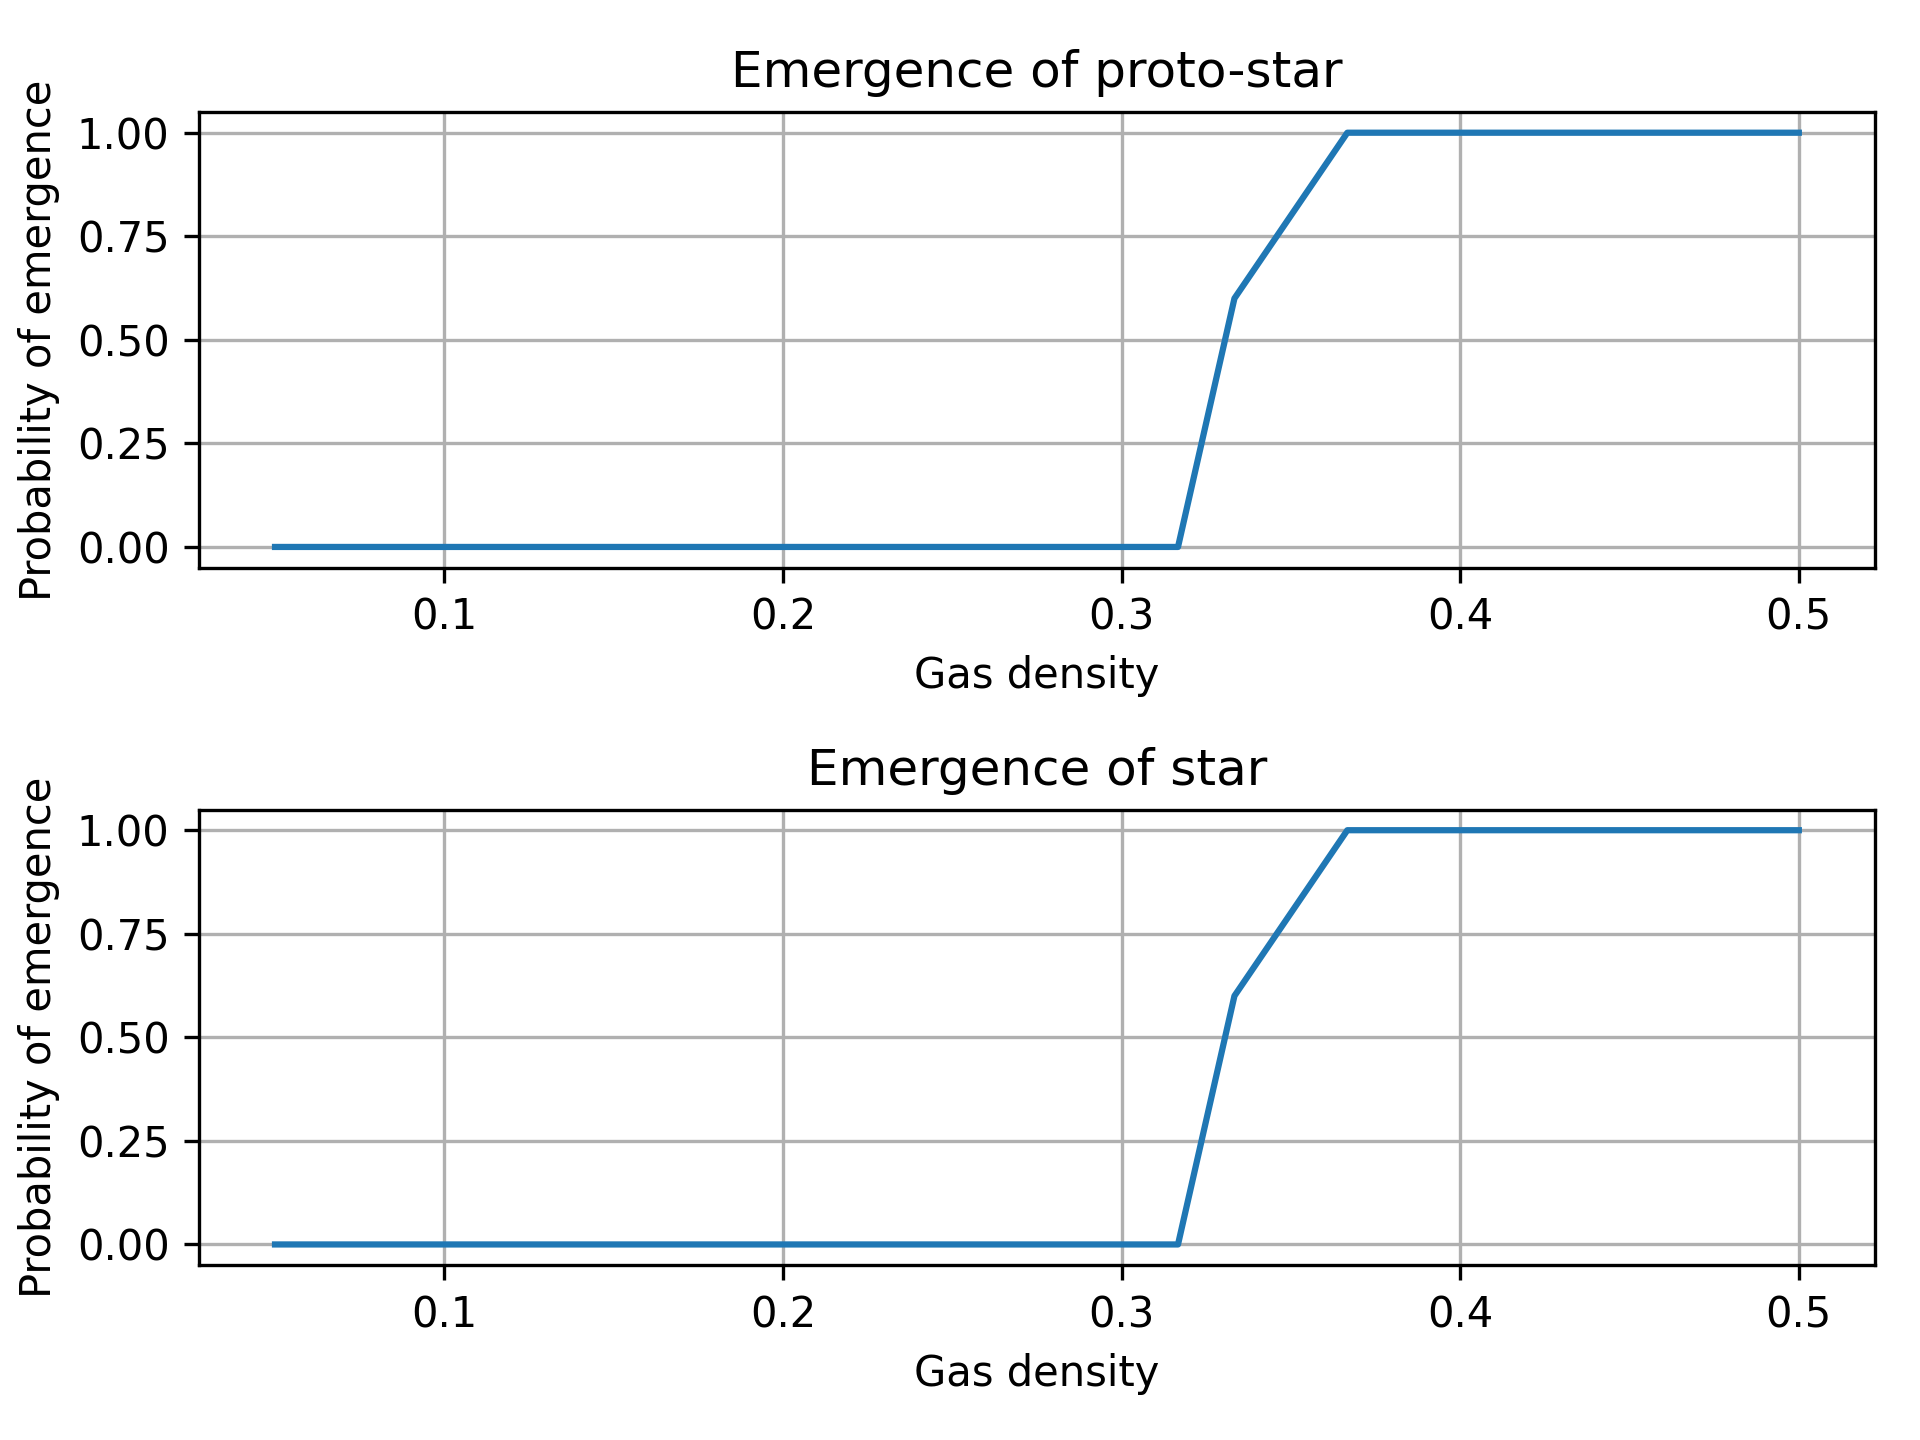
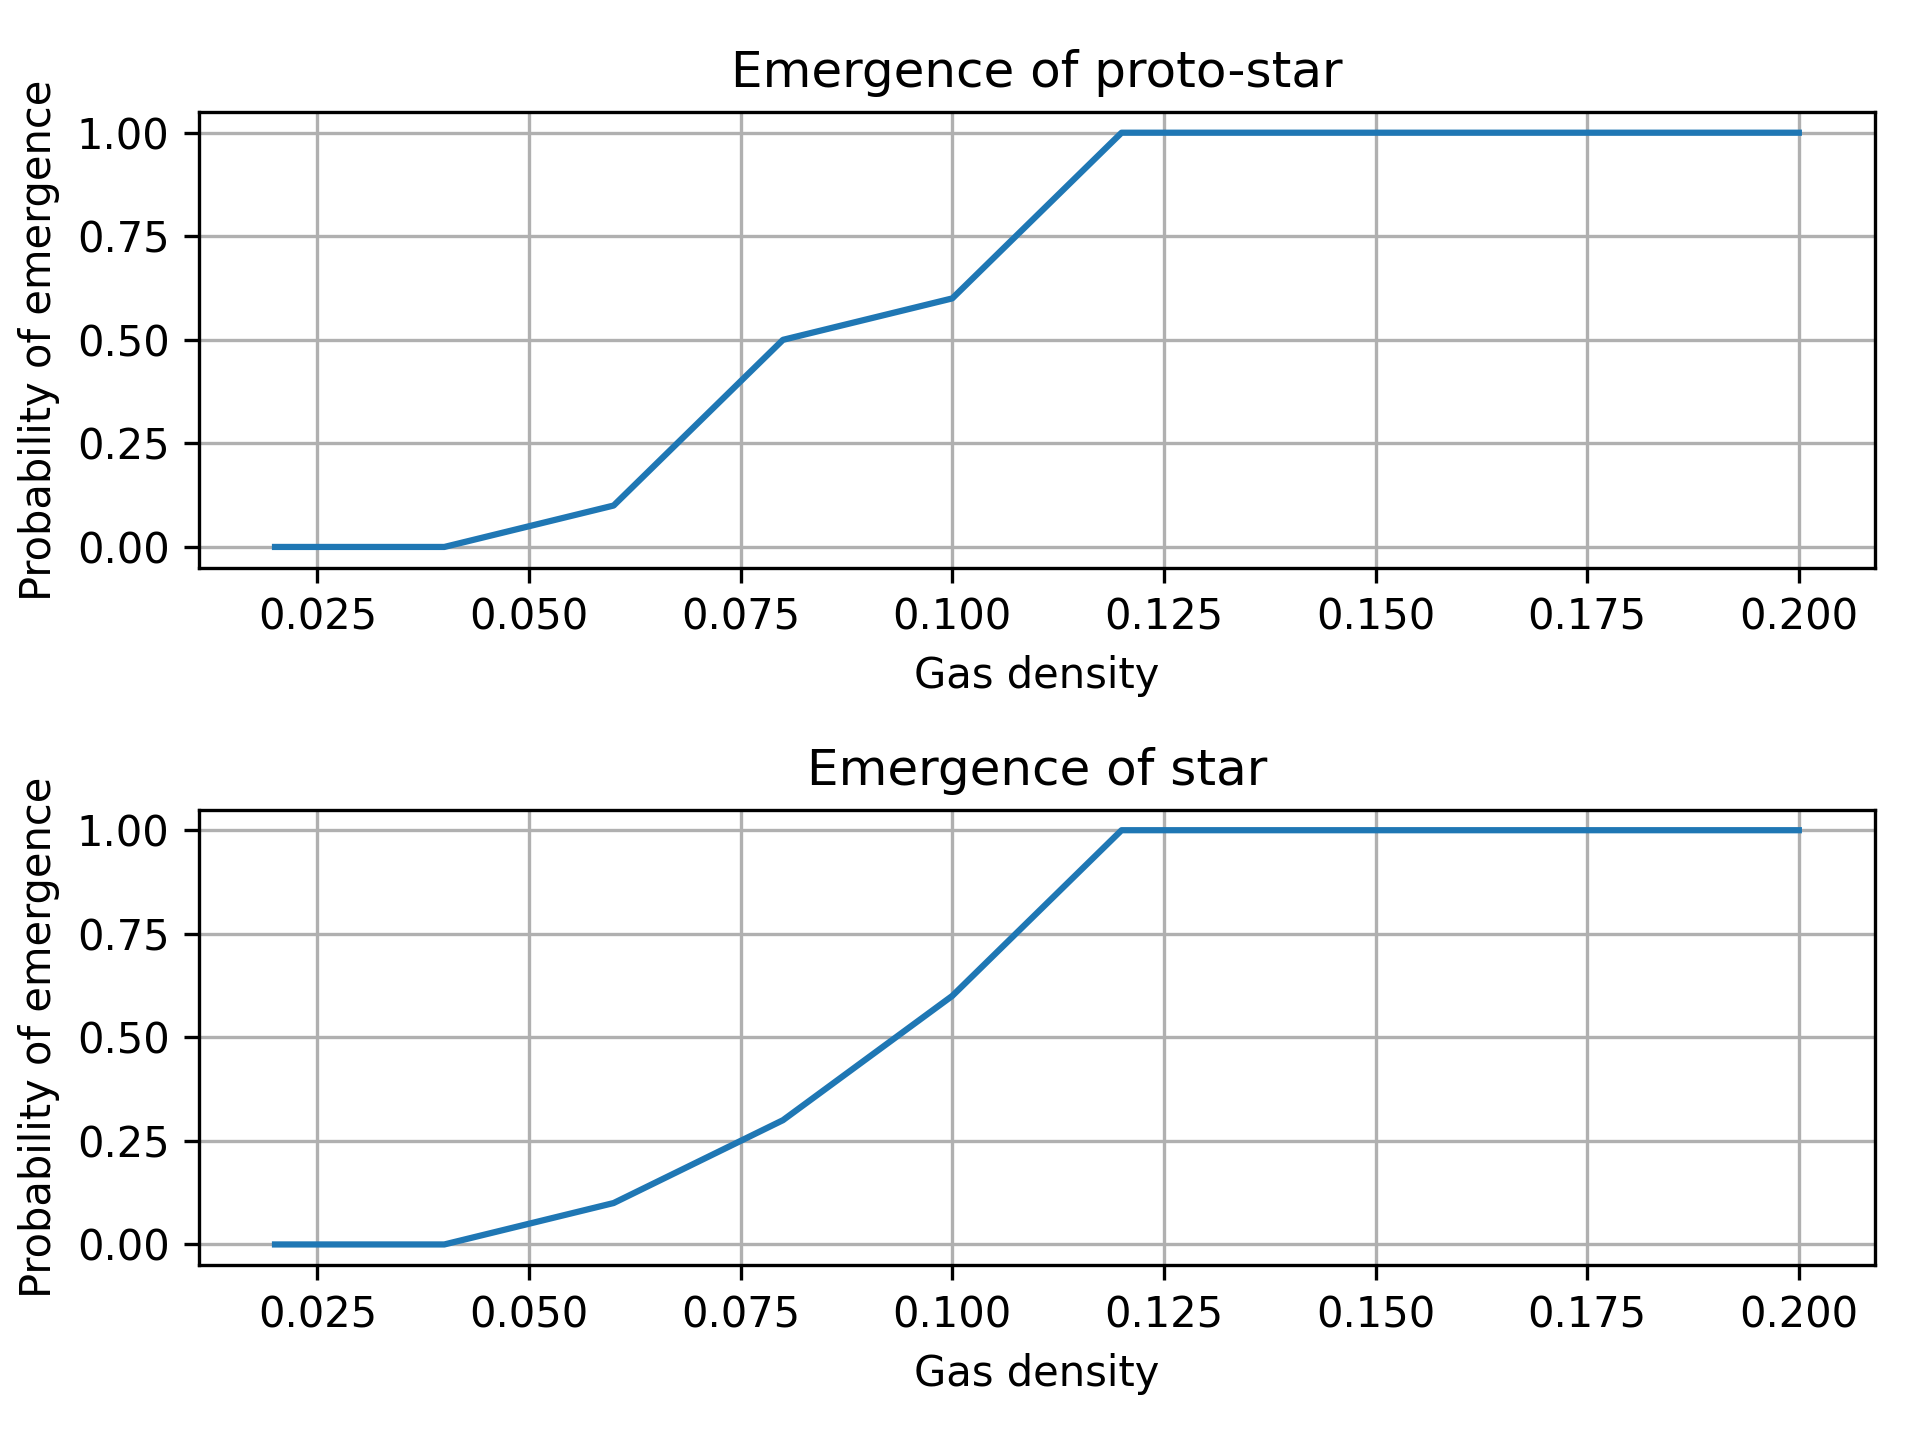
Update phase transition

diff --git a/phase_transitions.py b/phase_transitions.py
@@ -3,11 +3,13 @@ import numpy as np
 import matplotlib.pyplot as plt
 
 
-def simulate(N, probs_gas, frames=2000, runs=5, proto_size=35, star_size=200, steps_dissipating=50):
+def simulate(N, probs_gas, frames=1000, runs=10, proto_size=25, star_size=100, steps_dissipating=50):
     results = []
     for prob_gas in probs_gas:
+        print('Simulating for prob_gas =', prob_gas)
         emergence = [prob_gas, 0, 0]
         for i in range(runs):
+            print('Run', i+1, 'of', runs)
             p = [1 - prob_gas, prob_gas]
 
             # Initialize the cellular automaton
@@ -35,9 +37,12 @@ def simulate(N, probs_gas, frames=2000, runs=5, proto_size=35, star_size=200, st
         # Add to results
         results.append(emergence)
 
+        print(emergence)
+        print('')
+
     results = np.array(results)
     # Save results
-    np.savetxt('results/emergence2.txt', results, delimiter=',')
+    np.savetxt('results/emergence.txt', results, delimiter=',')
 
     # Plot results
     plot_transitions(results)
@@ -81,7 +86,7 @@ def load_results(file, save=None):
 
 if __name__ == '__main__':
     # N = 100
-    # probs_gas = np.linspace(0.25, 0.4, 10, endpoint=True)
+    # probs_gas = np.linspace(0.02, 0.2, 10, endpoint=True)
     # simulate(N, probs_gas)
     load_results('results/emergence.txt', 'figures/emergence.png')
 
